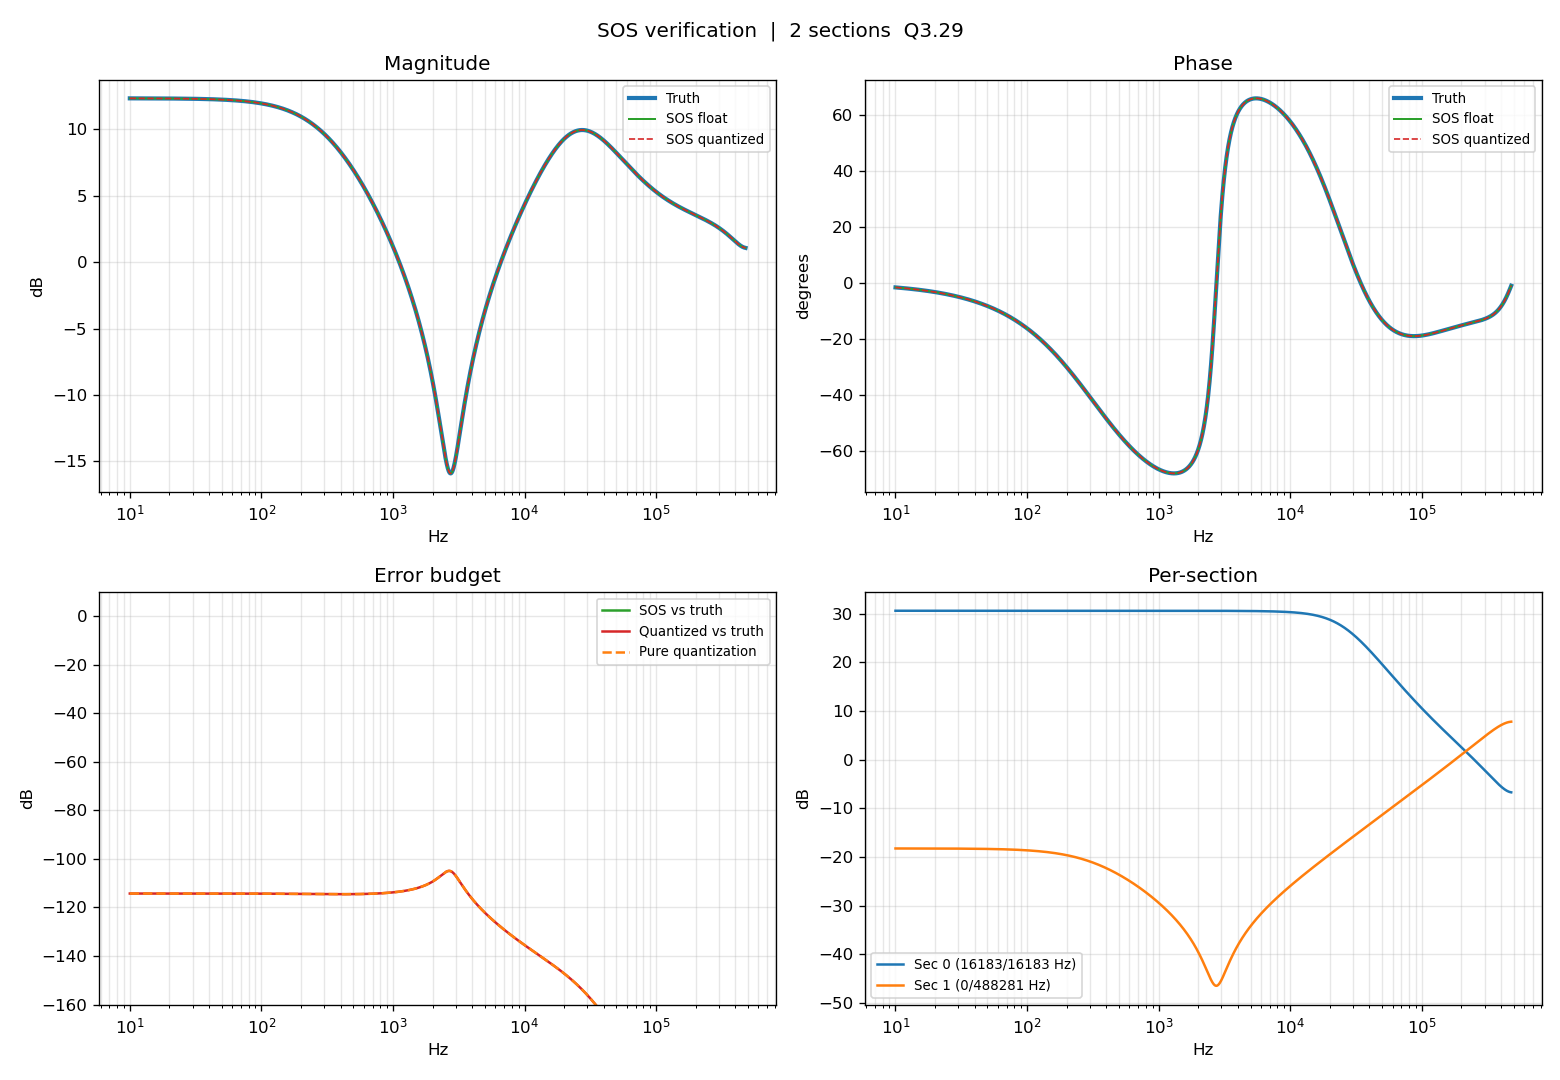
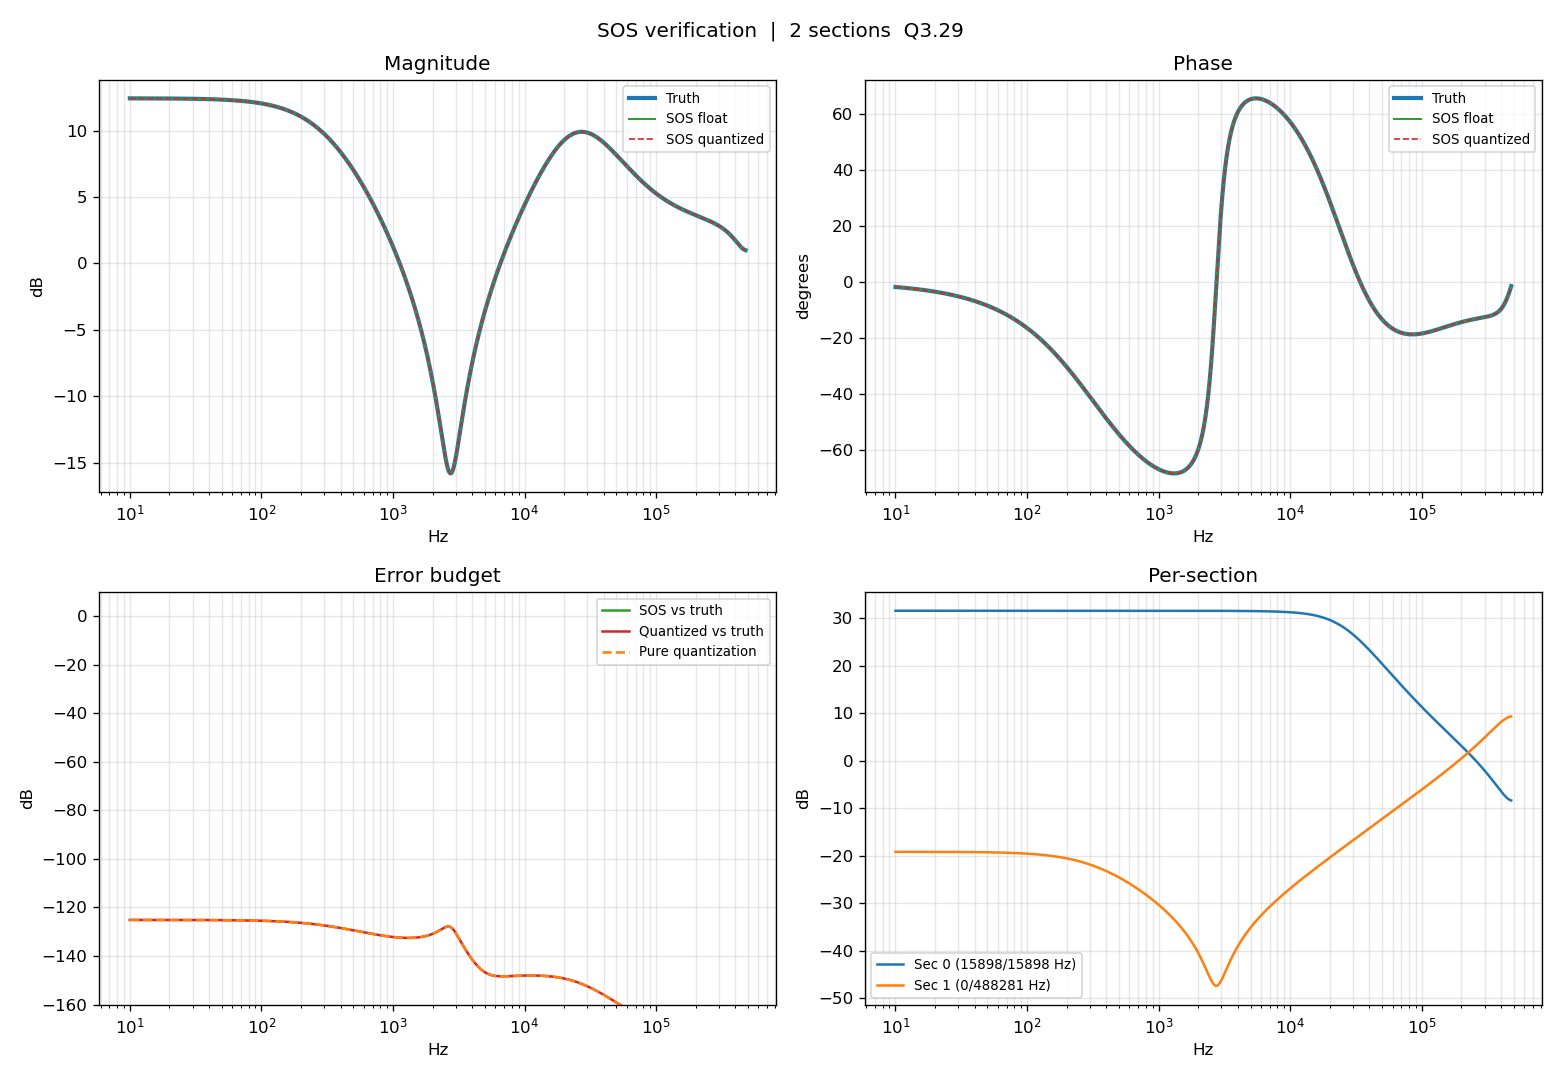
Testing on STEMLAB 125-14 Gen 2 Pro

diff --git a/src/dy_cavity_relocker_2.cpp b/src/dy_cavity_relocker_2.cpp
@@ -114,13 +114,13 @@ static void pack_dac(hls::stream<short> &dac1_in,
   for (int i = 0; i < 128; i++) {
     #pragma HLS PIPELINE II=1
     axis_t val_dac;
-    short dac_1_out = dac1_in.read();
-    short dac_2_out = dac2_in.read();
-    // dac1_in.read(); // Discard the H-infinity path output for now
-    // dac2_in.read(); // Discard the servo path output for now
-    // short dac_1_out = 200;
-    // short dac_2_out = -200;
-    val_dac.data = (((uint32_t)dac_2_out & 0xFFFF) << 16) | ((uint32_t)dac_1_out & 0xFFFF);
+    // short dac_1_out = dac1_in.read();
+    // short dac_2_out = dac2_in.read();
+    dac1_in.read(); // D/iscard the H-infinity path output for now
+    dac2_in.read(); // Discard the servo path output for now
+    short dac_1_out = 200;
+    short dac_2_out = -200;
+    // val_dac.data = (((uint32_t)dac_2_out & 0xFFFF) << 16) | ((uint32_t)dac_1_out & 0xFFFF);
     val_dac.keep = 0xF;
     val_dac.strb = 0xF;
     val_dac.last = 0;

diff --git a/src/hinf_coeffs.h b/src/hinf_coeffs.h
@@ -1,5 +1,5 @@
 // hinf_coeffs.h — auto-generated by coeffs_analyze.py
-// Q3.29  2 sections  fs=0.9766 MHz  quant err -104.9 dB
+// Q3.29  2 sections  fs=0.9766 MHz  quant err -125.1 dB
 #ifndef HINF_COEFFS_H
 #define HINF_COEFFS_H
 #include <stdint.h>
@@ -12,8 +12,8 @@
 typedef struct { int32_t b0,b1,b2,a1,a2; } hinf_sos_t;
 
 static const hinf_sos_t HINF_SOS[2] = {
-    {  802837007, -219322072, -150530355, -940356131,  416266594},
-    {  536870912,-1070536003,  533831956, -435171176, -100334150}
+    {  810580579, -121827130, -210815651, -940945515,  416630417},
+    {  536870912,-1070536002,  533831955, -363730666, -171621609}
 };
 
 #endif
